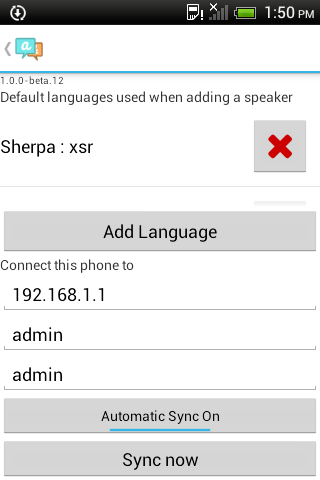
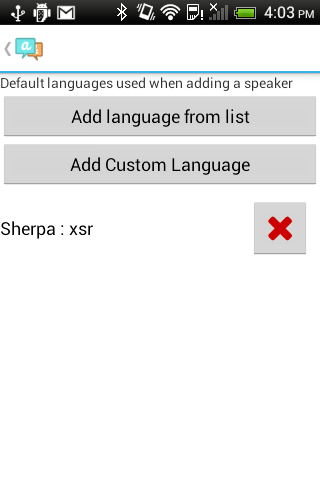
Update text across all sections and new images
images updated to version.13
text updates include @stevenbird feedback, additional notes and updates
to version.13
page internal cross-references also included now

diff --git a/aikuma/howto.md b/aikuma/howto.md
@@ -7,28 +7,27 @@ css: aikuma
 
 
 
-This guide outlines how to use Aikuma (version 1.0.0-beta.12). The most current version can be
+This guide outlines how to use Aikuma (version 1.0.0-beta.13). The most current version can be
 [downloaded](https://play.google.com/store/apps/details?id=org.lp20.aikuma&amphl=en) from the Google Play store.
 
 
-Main Page 
-----------
+Main Screen 
+-----------
 This is the screen you will see when you first open Aikuma. You can go to the other parts of the application, and see the list of recordings. 
 
-(main screen image to go here when full of texts)
+![Recording](/images/HowTo/MainList.png)
+<p class="clear"/>
 
 Using the icons along the top of the screen you can nagivate to other features of the application. 
 These other screens are explained in seperate sections below:
 
 * The Aikuma logo will always bring you back to this screen when you are in other areas of the application. 
-* The red recording button will take you to the recording screen. You will be able to make a recording.
-* The question mark will take you out of the application to the Aikuma website.
-* The person image will take you to the list of users. You will be able to add a new user
-* The gear is the settings screen. Here you can set the default languages and synching mode.
+* The red recording button will take you to the [recording screen][Record]. You will be able to make a recording.
+* The question mark will take you out of the application to the [Aikuma website](http://lp20.org/aikuma/index.html).
+* The person image will take you to the list of [users][Users]. You will be able to add a new user.
+* The gear will take you to the [settings][Settings] screen. Here you can set the default languages and synching mode.
 
-The main space on this screen is filled with the list of recordings that have been made by users of the application. 
-As you can see from the list in the image above, this includes an image of the speaker, and the date and duration of the recording. 
-You can select a recording to listen to it or add commentary. This is explained in the Playback section below. 
+The main space on this screen is filled with the list of recordings that have been made by users of the application. As you can see from the list in the image above, this includes an image of the speaker, and the date and duration of the recording. You can select a recording to listen to it or add commentary. This is explained in the [Playback][Playback] section below. 
 
 
 Record
@@ -39,115 +38,113 @@ Press the record button on home screen
 It will bring up this screen: 
 
 ![Recording](/images/HowTo/NewRecording.png)
-
 <p class="clear"/>
+
+###Make a recording###
 
 You can record in one of two different ways. 
 1. Press the record button. There will be two short beeps and then you can begin to talk.
 2. Hold the phone up to your ear, you will hear the two short beeps and then you can begin to talk.
 
-To stop recording either hit the pause button or lower the phone from your ear. You will be able to see how long the recording is at the top of the screen. You can continue the recording by following either of the two ways discussed above. 
+To stop recording either press the pause button or lower the phone from your ear. You will be able to see how long the recording is at the top of the screen. You can continue the recording again using either of the two options. 
+
+If you decide you don't want to make the recording, of you've made a recording you do not want press either the back button or the Aikuma homepage button. This will take you back to the [Main screen][Main screen].
 
 Once your recording is complete press the save button. This is the image of the disk above the recording button. This will take you into the save screen:
 
 ![Adding recording information](/images/HowTo/ListeningNew.png)
-
 <p class="clear"/>
 
 At the top you can listen back to the recording by pressing play. You can stop the recording by pressing the button again. You can move along the recording by dragging the blue dot along the timeline.
 
-To save a recording you must add at least speaker. Do this by pressing on the user image. This will take you to your User page (discussed below). You can select one of the users already in your list, or create a new user (the process for this is discussed in the Users section below).You can add more than one speaker.
+###Save a recording###
+
+To save a recording you must add at least one speaker. Do this by pressing on the user image. This will take you to your User page (discussed below). You can select one of the users already in your list, or create a new user (the process for this is discussed in the Users section below).You can also add more than one speaker.
 
 After you have added at least one speaker choose what languages are spoken in the recording. All of the languages listed for the person or persons you have added will appear in the list with ticks next to each one. Untick the languages that do not appear in the recording.
 
+Although it is not obligatory you can also add a description for your story. Click on the 'description' section and type in a basic title of the recording, for example "Jackal and Crow" or "when the village got electricity". You do not have to add a title if you do not want.
+
 Once you have added at least one speaker and selected the languages in the recording the tick at the bottom of the page will become green and you can save the recording. The screen will remind you that your recording will be shared with everybody, if you do not want your recording shared you will have to delete it. 
 
-Pressing the large red cross at the bottom of the screen will save the recording to your collection. Pressing the red cross will give you the option to discard the recording. 
+![Recording information added](/images/HowTo/AddingInfo.png)
+<p class="clear"/>
+
+Pressing the large green tick at the bottom of the screen will save the recording to your collection. Pressing the red cross will give you the option to discard the recording. Pressing the Aikuma logo at the top of the screen will also ask you to discard the recording.
 
 Your recording will now appear in the list on the main screen, with the date, duration and the image of the people in the recording.
 
-![Recording information added](/images/HowTo/AddingInfo.png)
-
-<p class="clear"/>
-
-To go back to the Main screen at any time press the Aikuma logo in the top left-hand corner of the screen.
+To go back to the [Main screen][Main Screen] at any time press the Aikuma logo in the top left-hand corner of the screen.
 
 
 Playback
 ---------
 
-When you select a recording from the list on the Main screen you will be taken to this playback screen. It contains the recording date, duration and any speakers from the recording. Pressing the play button will start the recording, and pressing the same button again will pause it, you can drag the blue dot anywhere along the timeline to skip to another part of the recording.
+When you select a recording from the list on the Main screen you will be taken to this playback screen. It contains the recording date, duration and any speakers from the recording. Pressing the play button will start the recording, and pressing the same button again will pause it, you can drag the blue dot anywhere along the timeline to skip to another part of the recording. You can turn the volume up or down using your mobile phone volume control (most often located on the side of the phone). 
 
 ![Listening to recording](/images/HowTo/ListenfromList.png)
-
 <p class="clear"/>
 
 ###Adding a Commentary###
 As well as listening to the recording you can choose to add a commentary. This could be involve respeaking the recording slower and more clearly, or to translating the recording into another language that you speak. You could also give additional information about the content of the recording. These recordings are useful for helping share you language with members of your community, or with other communities. 
 
-There are two ways to add a commentary. These are both listed on the bottom of the screen. The first is "Thumb commentary", where you use the touch screen to move through the recording. The second is "Voice-activated commentary" where you hold the phone to your ear and interrupt the recording with your voice. These two options are explained in more detail below.
+There are two ways to add a commentary. These are both listed on the bottom of the screen. The first is ["Thumb commentary"][Thumb Commentary], where you use the touch screen to move through the recording. The second is ["Voice-activated commentary"][Voice-activated Commentary] where you hold the phone to your ear and interrupt the recording with your voice. These two options are explained in more detail below.
 
 ###Thumb Commentary###
-When you enter the Thumb commentary mode you will see a green playbutton on the left and a red record button on the right. Use your thumbs to navigate these two buttons. 
+When you enter the Thumb commentary mode you will see a green playbutton on the left and a red record button on the right. Although you can use these with the phone lengthwise it is generally more comfortable to rotate the phone and use the bottons in the position shown in the image below. Use your thumbs to navigate these two buttons. 
 
 ![Thumb Commentary](/images/HowTo/ThumbComments.png)
-
 <p class="clear"/>
 
-Play a short section of the recording with the green button, then press the red button to record a translation, respeaking or commentary for that section. Repeat the listening to small segments and recording until the end of the recording.  
+Play a short section of the recording by holding down the green button. If you hold down the green button again you will hear that section of the recording again. When you are ready to add your commentary hold down the red button to record a translation, respeaking or commentary for that section. Repeat the listening to small segments and recording until the end of the recording. The press the save button. 
+
+The process for adding information about the saved recording is [the same as discussed above][Save a recording] for an original recording. Your recording will now appear in the list of recordings on the [Main screen][Main Screen].
 
 ###Voice-activated Commentary###
 The second way of adding commentary is to use the "Voice-activated commentary. When you enter this option a box will appear and fill with red or green. 
 
-<p class="clear"/>
-
 ![Sensitivity Meter](/images/HowTo/Sensitivity.png)
-
 <p class="clear"/>
 
 This is the phone testing how noisy the environment is so that it can recognise your voice. When this process is completed you will then see this screen.
 
-<p class="clear"/>
 
-![Sensitivity Meter](/images/HowTo/VoiceCommentsScreen.png)
-
+![Voice Screen](/images/HowTo/VoiceCommentsScreen.png)
 <p class="clear"/>
 
 At the bottom of the screen is the voice sensitivity slider. When you start using the voice-activated commentary you may find that the phone does not stop the recording when you speak, which means the sensitivity is set too low. You may find that it keeps stopping even when you are quiet, which means the sensitivity is set too high. The sensitivity meter should have done a pretty good job of figuring our the setting, but you may need to move the blue dot along the sliding scale to adjust it. Moving the blue dot to the left will make it less sensitive, and moving it to the right will make it more sensitive.
 
 Now you can begin to make your recording. Hold the phone up to your ear and listen to the recording. At a convenient break start your translation, respeaking or commentary. The phone will recognise your voice input, stop the original recording and record your voice. When you stop talking the recording will go back a second or two and continue. Do this until the end of the recording, then press the save button. 
 
+The process for adding information about the saved recording is [the same as discussed above][Save a recording] for an original recording. Your recording will now appear in the list of recordings on the [Main screen][Main Screen].
 
-Add a User 
-----------
+To go back to the [Main screen][Main Screen] at any time press the Aikuma logo in the top left-hand corner of the screen. If you are in the middle of a recording it will ask you if you want to discard it. If you do, press 'Discard', if you don't press 'Cancel' and save the recording before exiting. 
+
+Users 
+-----
 
 This is the page that lists all of the users, and where you can add new users. 
 
 ![Users](/images/HowTo/Users.png)
-
 <p class="clear"/>
 
 Here you can see that all users are listed with their photograph, name and languages that they speak.
 
-<p class="clear"/>
-
 To add a new user click on the large grey button with the user icon at the top of the screen. It will open this menu:
 
 ![New User](/images/HowTo/NewUserEmpty.png)
-
 <p class="clear"/>
 
-Sherpa is already listed a language because it has been set as a default language, this is done in the Settings screen (discussed below). To add a new user follow these steps:
+Sherpa is already listed a language because it has been set as a default language, this is done in the [Settings][Setting default languages] screen (discussed below). To add a new user follow these steps:
 
 1. Add the person's name
-2. Take a photograph of the person using the mobile phone in the camera. With most phones you will be given the chance to accept the photo, or reject it and try again.  
+2. Take a photograph of the person using the mobile phone in the camera. You will be given the chance to accept the photo or reject it and try again.  
 3. Delete any of the default languages the person does not speak (press the red cross next to the language name)
 4. Add any additional languages the person speaks
 
 The information should now look like this:
 
 ![New User](/images/HowTo/NewUserFull.png)
-
 <p class="clear"/>
 
 5. Press the green tick to accept and add the user to the list.
@@ -155,32 +152,23 @@ The information should now look like this:
 You will notice that the tick only becomes bright green when information is added to each field (name, image, languages). You will not be able to accept the user until all information has been added. This person is now added to our list of users. 
 
 ![Users](/images/HowTo/UsersNew.png)
-
 <p class="clear"/>
 
-To go back to the Main screen at any time press the Aikuma logo in the top left-hand corner of the screen.
+To go back to the Main screen at any time press the Aikuma logo in the top left-hand corner of the screen. If you are in the middle of creating a user it will ask you if you want to discard it. If you do, press 'Discard', if you don't press 'Cancel' and save the recording before exiting. 
 
 ###Setting A User's Language###
-You can attribute as many languages to each individual as necessary. You can either select languages from the list of ISO 639-3 languages or add a language that does not appear in that list. 
+You can attribute as many languages to each individual as necessary. You can either select languages from the list provided or add a language that does not appear in that list. The list of languages is taken from the ISO 639-3 languages list, so your language may appear there, but is spelt differently. 
 
-If you press the "Add ISO 639-3 Language" button you will be taken into the full list of languages. This is very long, so use the search box at the top of the screen to find the language you want to select. Click on it and it will be added to the speaker's languages. Do this again for each language you want to add. 
+If you press the "Add language from list" button you will be taken into the full list of languages. This is very long, so use the search box at the top of the screen to find the language you want to select. Click on it and it will be added to the speaker's languages. Do this again for each language you want to add. 
 
 ![Selecting a Default Language](/images/HowTo/SettingsPageAddingLang.png)
-
- <p class="clear"/>
-
-You can also set a custom language if the language you speak does not exist in the ISO 639-3 list. For example there is no distinction in the codes for Traditional Tiwi or Modern Tiwi (Australia), so speakers of Modern Tiwi might add it as a custom language. 
-
-![Add a custom language](/images/HowTo/AddCustom.png)
-
 <p class="clear"/>
 
-Afer a custom language it has been added it will appear in the list for that speaker.  
+You can also set a custom language ("Add Custom language") if the language you speak does not exist in the longer list. In this option you type the name of the language in and press "Add Custom Language". After a custom language has been added it will appear in the list of default languages, but it will not have a three letter code after the colon as it is not part of the ISO 639-3 list.  
 
 To remove a langauge from the list press the red cross next to the language name and it will be removed. 
 
-To go back to the Main screen at any time press the Aikuma logo in the top left-hand corner of the screen.
-
+To go back to the [Main screen][Main Screen] at any time press the Aikuma logo in the top left-hand corner of the screen.
 
 Help 
 ----------
@@ -192,33 +180,48 @@ Settings
 The settings page allows you to set the default languages. It also has setting for synchronising devices after they have been used. Below is a screenshot of the settings page.
 
 ![Settings page](/images/HowTo/SettingsPage.png)  
+<p class="clear"/>
 
-###Setting default languages###
-You are able to set any number of defaul languages that are listed when you create a new user. This is useful if you are working in a community where the majority of people will all have at least one common language. 
+###Default languages###
+Pressing the "Default Languages" button will take you into the page where you can change this setting. You are able to set any number of defaul languages that are listed when you create a new user. This is useful if you are working in a community where the majority of people will all have at least one common language. 
 
-To add a new defaul language, press the "Add Language" button. This will bring up a list many languages (all languages with an ISO 639-3 code), so use the search box at the top of the page to narrow down the options.
+![Default Languages](/images/HowTo/DefaultLanguages.png) 
+<p class="clear"/>
+
+To add a new defaul language, press the "Add language from list" button. This will bring up a list many languages (all languages with an ISO 639-3 code), so use the search box at the top of the page to narrow down the options.
 
 ![Selecting a Default Language](/images/HowTo/SettingsPageAddingLang.png)
-
 <p class="clear"/>
 
 Once you have selected a language it will appear in the list of default langauges. 
 
 ![Settings page with a default language added](/images/HowTo/SettingsPageLangAdded.png)  
+<p class="clear"/>
 
+You may select as many languages as defaults as you like. You can remove a default language from the list by pressing the red cross next to the language name.
 
-You may select as many languages as defaults as you like. 
+You can also set a custom language ("Add Custom language") if the language you speak does not exist in the longer list. For example there is no distinction in the codes for Traditional Tiwi or Modern Tiwi (Australia), so speakers of Modern Tiwi might add it as a custom language. 
 
-You can remove a default language from the list by pressing the red cross next to the language name.
+![Add a Custom Language](/images/HowTo/AddCustom.png)
+<p class="clear"/>
+
+After a custom language has been added it will appear in the list for that speaker
 
 If you remove a language from the list of default languages it will not change the languages listed for participants you created earlier.
 
+To go back to the [Main screen][Main Screen] at any time press the Aikuma logo in the top left-hand corner of the screen.
+
 ###Syncing the device to a server###
-This part of the settings page is only relevant if you are using Aikuma as part of a network of devices. 
+This part of the settings page is only relevant if you are using Aikuma as part of a network of devices. Clicking on the "Sync Settings" button will take you to this page:
+
+>> images of new sync settings page
+![Sync Settings](/images/HowTo/SyncSettings.png)
+<p class="clear"/>
+
 If you have created a central server for the network you can type in the IP address and information. 
 'Automatic Sync' can be turned on or off by pressing the button. Pressing 'Sync now' will sync the data on this device with the server only if the correct information has been typed above and there is an available connection.
 
-To go back to the Main screen at any time press the Aikuma logo in the top left-hand corner of the screen.
+To go back to the [Main screen][Main Screen] at any time press the Aikuma logo in the top left-hand corner of the screen.
 
 Updating Aikuma 
 ---------------
@@ -228,4 +231,4 @@ When you download a new version it will ask you to delete the old version. This 
 
 Credits
 -------
-Images: The profile pictures used in this tutorial come from wikipedia and are available under a Creative Commons license. [Woman 1](http://en.wikipedia.org/wiki/File:Chhurim,_first_women_to_climb_mt._everest_twice_in_the_same_season.jpg), [Woman 2](http://commons.wikimedia.org/wiki/File:Tamang_woman.jpg), [Man 1](http://commons.wikimedia.org/wiki/File:Apa_Sherpa.jpg) and [Man 2](http://commons.wikimedia.org/wiki/File:Buddhist_Lama_of_the_Tamang_People,_Tistung,_Nepal.jpg)
+Images: The profile pictures used in this tutorial come from wikipedia and are available under a Creative Commons license. [Woman 1](http://en.wikipedia.org/wiki/File:Chhurim,_first_women_to_climb_mt._everest_twice_in_the_same_season.jpg), [Woman 2](http://commons.wikimedia.org/wiki/File:Tamang_woman.jpg) and [Man 1](http://commons.wikimedia.org/wiki/File:Apa_Sherpa.jpg).
